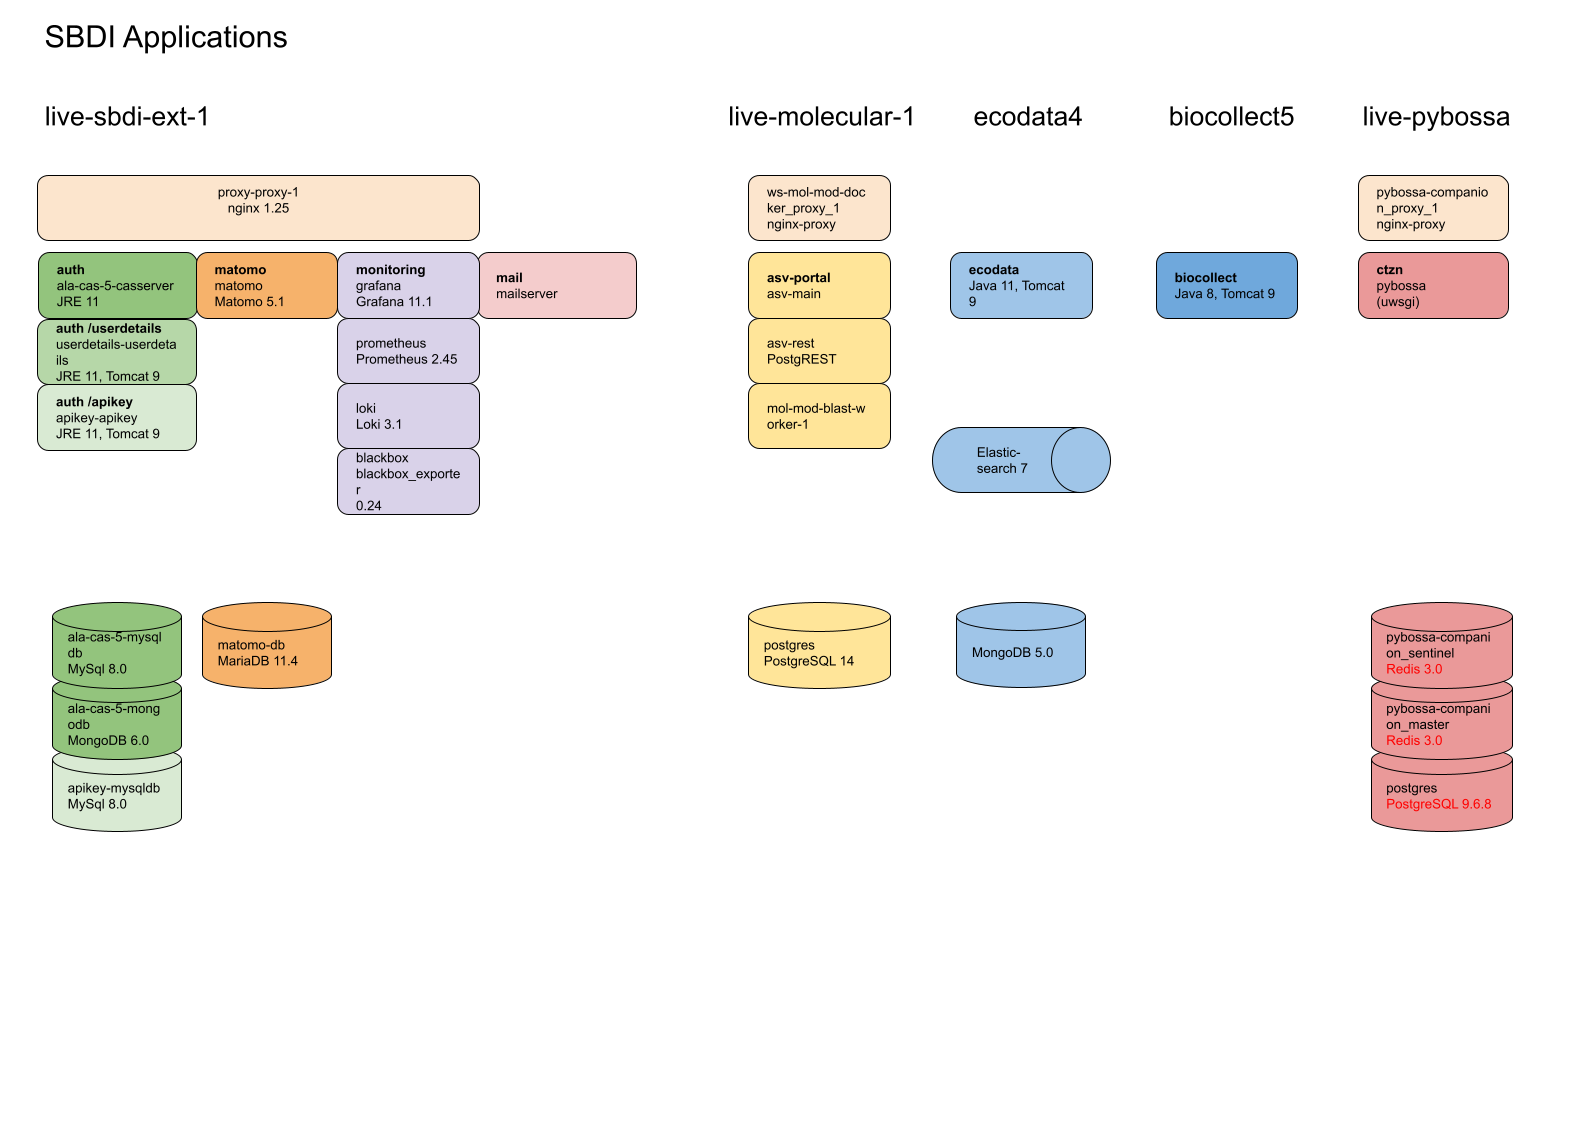
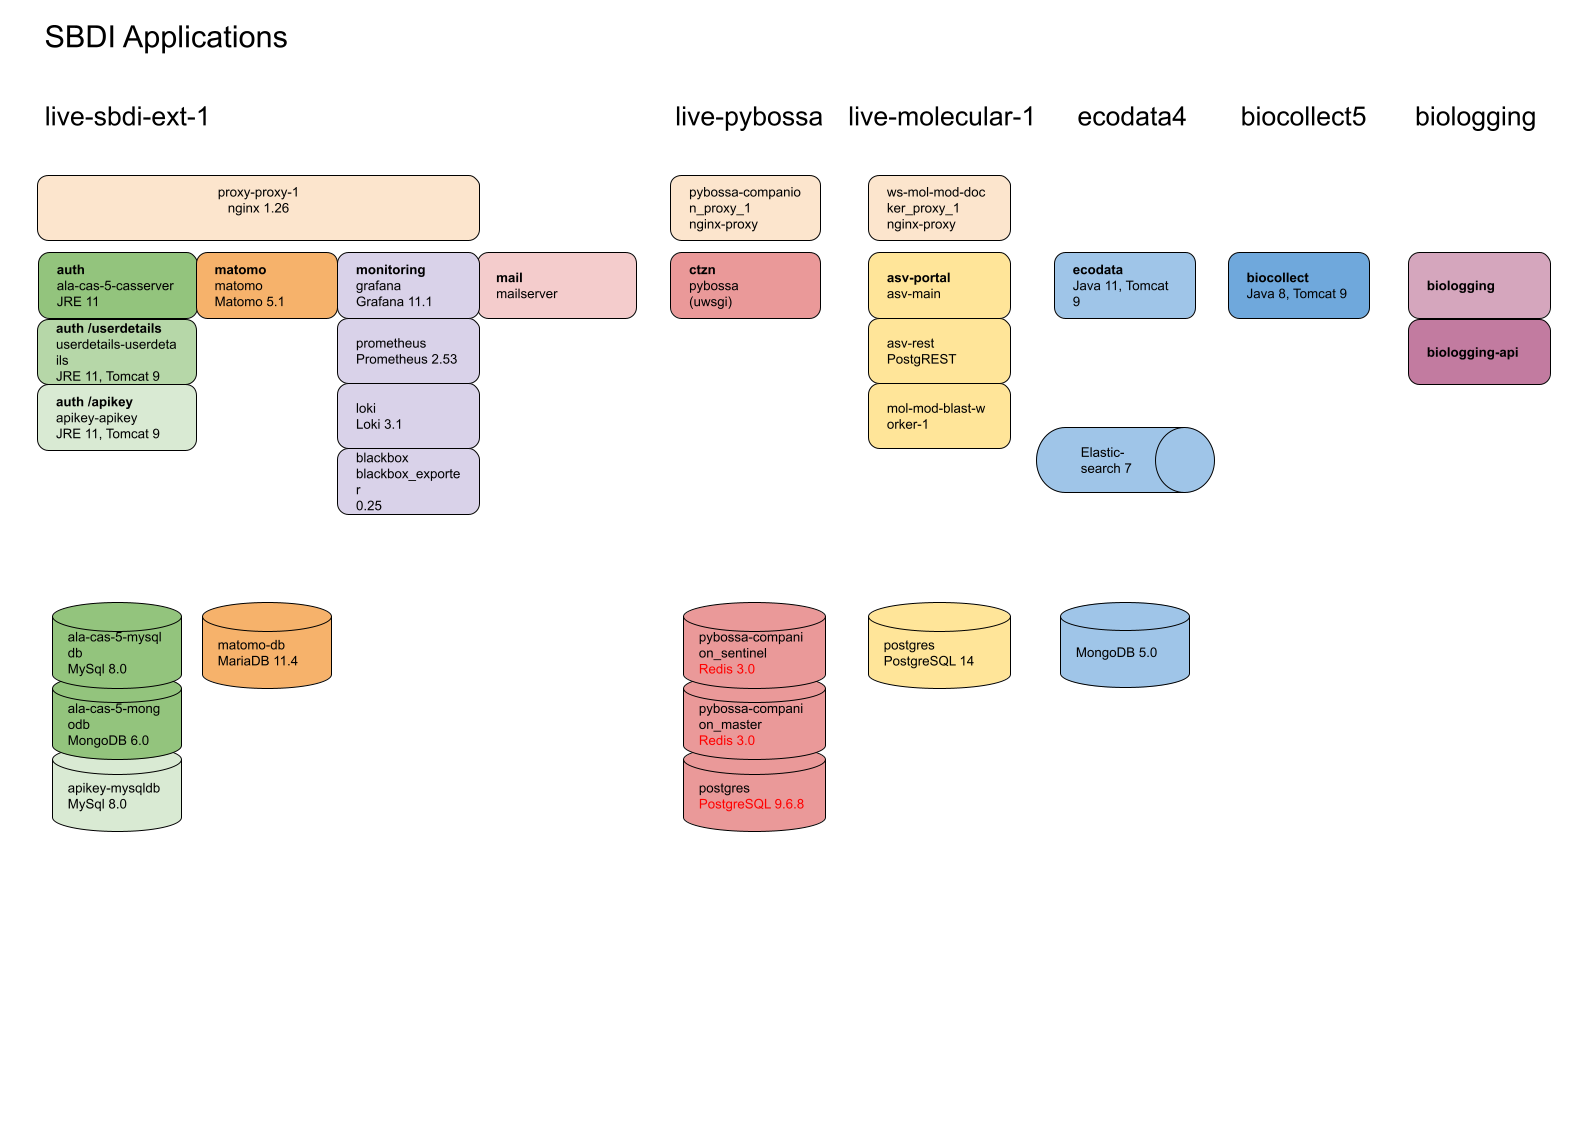
Add server graph. Update application graphs

diff --git a/README.md b/README.md
@@ -9,6 +9,9 @@ More documentation can also be found in the [wiki](https://github.com/biodiversi
 - SSL/TLS Certificates are provided by Sectigo (through the IT department at NRM).
 - Applications run in [Docker](https://www.docker.com/), the majority in a Docker Swarm setup consisting of several manager and worker nodes. Some applications run on separate servers.
 
+### Server overview
+![SBDI Servers](images/SBDI-Servers.png)
+
 ### Application overview
 ![SBDI Applications swarm](images/SBDI-Applications-swarm.png)
 ![SBDI Applications other](images/SBDI-Applications-other.png)
